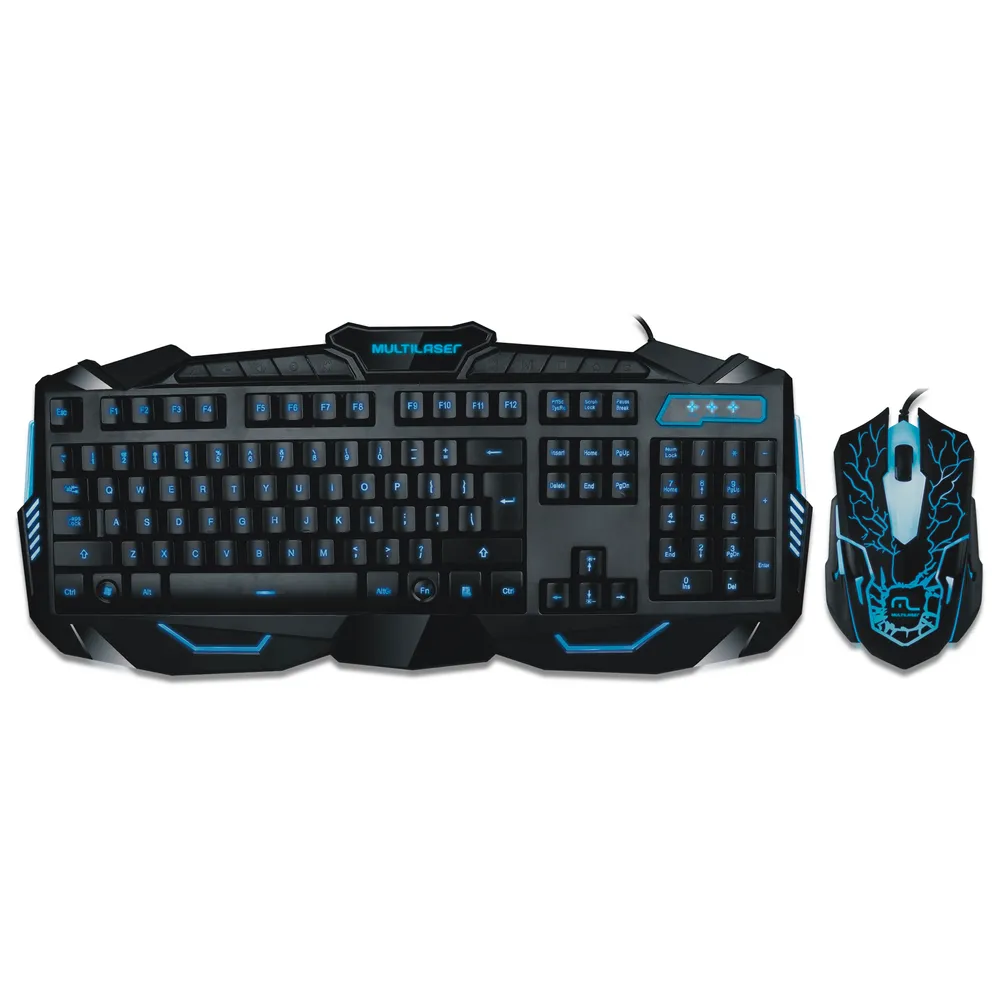
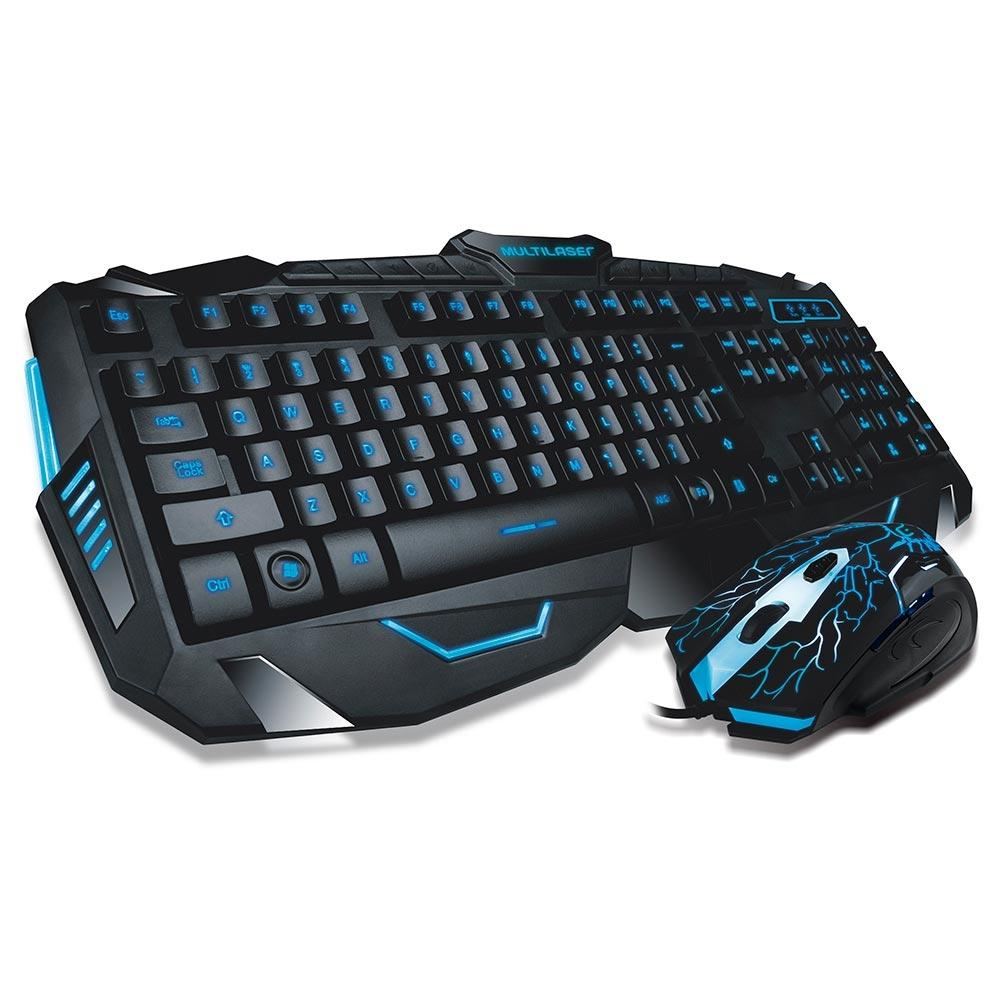
Colocado fotos dos teclados que faltava ajustado os links

diff --git a/src/html/Peripherals/Mouse&Keybord.html b/src/html/Peripherals/Mouse&Keybord.html
@@ -104,9 +104,9 @@
             <div class="product-content">
                 <div class="images">
                     <img src="../../../assets/Peripherals/MeT/EXBOM/exboom kit.jpg" id="img_amost">
-                    <img src="../../../assets/Peripherals/MeT/EXBOM" class="img_invisible">
-                    <img src="../../../assets/Peripherals/MeT/EXBOM" class="img_invisible">
-                    <img src="../../../assets/Peripherals/MeT/EXBOM" class="img_invisible">
+                    <img src="../../../assets/Peripherals/MeT/EXBOM/exboom-size.jpg" class="img_invisible">
+                    <img src="../../../assets/Peripherals/MeT/EXBOM/exboom_detalhe_mouse.jpg" class="img_invisible">
+                    <img src="../../../assets/Peripherals/MeT/EXBOM/exboom_mouse_foco.jpg" class="img_invisible">
                 </div>
 
                 <div class="info">
@@ -197,9 +197,9 @@
             <div class="product-content">
                 <div class="images">
                     <img src="../../../assets/Peripherals/MeT/HP/hp kit.jpg" id="img_amost">
-                    <img src="../../../assets/Peripherals/MeT/HP" class="img_invisible">
-                    <img src="../../../assets/Peripherals/MeT/HP" class="img_invisible">
-                    <img src="../../../assets/Peripherals/MeT/HP" class="img_invisible">
+                    <img src="../../../assets/Peripherals/MeT/HP/hp_mouse.jpg" class="img_invisible">
+                    <img src="../../../assets/Peripherals/MeT/HP/hp_top.jpg" class="img_invisible">
+                    <img src="../../../assets/Peripherals/MeT/HP/hp kit.jpg" class="img_invisible">
                 </div>
 
                 <div class="info">
@@ -290,9 +290,9 @@
             <div class="product-content">
                 <div class="images">
                     <img src="../../../assets/Peripherals/MeT/LGTECH/logitech kit.jpg" id="img_amost">
-                    <img src="../../../assets/Peripherals/MeT/LGTECH" class="img_invisible">
-                    <img src="../../../assets/Peripherals/MeT/LGTECH" class="img_invisible">
-                    <img src="../../../assets/Peripherals/MeT/LGTECH" class="img_invisible">
+                    <img src="../../../assets/Peripherals/MeT/LGTECH/logitech_front.jpg" class="img_invisible">
+                    <img src="../../../assets/Peripherals/MeT/LGTECH/logitech_hand.jpg" class="img_invisible">
+                    <img src="../../../assets/Peripherals/MeT/LGTECH/logitech kit.jpg" class="img_invisible">
                 </div>
 
                 <div class="info">
@@ -383,9 +383,9 @@
             <div class="product-content">
                 <div class="images">
                     <img src="../../../assets/Peripherals/MeT/MC/microsoft kit.jpg" id="img_amost">
-                    <img src="../../../assets/Peripherals/MeT/MC" class="img_invisible">
-                    <img src="../../../assets/Peripherals/MeT/MC" class="img_invisible">
-                    <img src="../../../assets/Peripherals/MeT/MC" class="img_invisible">
+                    <img src="../../../assets/Peripherals/MeT/MC/mc-top-release.JPG" class="img_invisible">
+                    <img src="../../../assets/Peripherals/MeT/MC/microsoft kit side.jpg" class="img_invisible">
+                    <img src="../../../assets/Peripherals/MeT/MC/microsoft kit.jpg" class="img_invisible">
                 </div>
 
                 <div class="info">
@@ -476,9 +476,9 @@
             <div class="product-content">
                 <div class="images">
                     <img src="../../../assets/Peripherals/MeT/MTL/multilaser kit.jpg" id="img_amost">
-                    <img src="../../../assets/Peripherals/MeT/MTL" class="img_invisible">
-                    <img src="../../../assets/Peripherals/MeT/MTL" class="img_invisible">
-                    <img src="../../../assets/Peripherals/MeT/MTL" class="img_invisible">
+                    <img src="../../../assets/Peripherals/MeT/MTL/multilaser kit-3.jpg" class="img_invisible">
+                    <img src="../../../assets/Peripherals/MeT/MTL/multilaser kit-2.jpg" class="img_invisible">
+                    <img src="../../../assets/Peripherals/MeT/MTL/multilaser kit.jpg" class="img_invisible">
                 </div>
 
                 <div class="info">
@@ -569,9 +569,9 @@
             <div class="product-content">
                 <div class="images">
                     <img src="../../../assets/Peripherals/MeT/RD/redragon kit.jpg" id="img_amost">
-                    <img src="../../../assets/Peripherals/MeT/RD" class="img_invisible">
-                    <img src="../../../assets/Peripherals/MeT/RD" class="img_invisible">
-                    <img src="../../../assets/Peripherals/MeT/RD" class="img_invisible">
+                    <img src="../../../assets/Peripherals/MeT/RD/redragon kit-1.jpg" class="img_invisible">
+                    <img src="../../../assets/Peripherals/MeT/RD/redragon kit-2.jpg" class="img_invisible">
+                    <img src="../../../assets/Peripherals/MeT/RD/redragon kit-3.jpg" class="img_invisible">
                 </div>
 
                 <div class="info">
@@ -661,9 +661,9 @@
             <div class="product-content">
                 <div class="images">
                     <img src="../../../assets/Peripherals/MeT/RZ/raizer kit.jpg" id="img_amost">
-                    <img src="../../../assets/Peripherals/MeT/RZ" class="img_invisible">
-                    <img src="../../../assets/Peripherals/MeT/RZ" class="img_invisible">
-                    <img src="../../../assets/Peripherals/MeT/RZ" class="img_invisible">
+                    <img src="../../../assets/Peripherals/MeT/RZ/raizer kit-1.jpg" class="img_invisible">
+                    <img src="../../../assets/Peripherals/MeT/RZ/raizer kit-2.jpg" class="img_invisible">
+                    <img src="../../../assets/Peripherals/MeT/RZ/raizer kit-3.jpg" class="img_invisible">
                 </div>
 
                 <div class="info">
@@ -753,9 +753,9 @@
             <div class="product-content">
                 <div class="images">
                     <img src="../../../assets/Peripherals/MeT/WAR/warriors kit.jpg" id="img_amost">
-                    <img src="../../../assets/Peripherals/MeT/WAR" class="img_invisible">
-                    <img src="../../../assets/Peripherals/MeT/WAR" class="img_invisible">
-                    <img src="../../../assets/Peripherals/MeT/WAR" class="img_invisible">
+                    <img src="../../../assets/Peripherals/MeT/WAR/warriors kit-1.jpg" class="img_invisible">
+                    <img src="../../../assets/Peripherals/MeT/WAR/warriors kit-2.jpg" class="img_invisible">
+                    <img src="../../../assets/Peripherals/MeT/WAR/warriors kit-3.jpg" class="img_invisible">
                 </div>
 
                 <div class="info">
